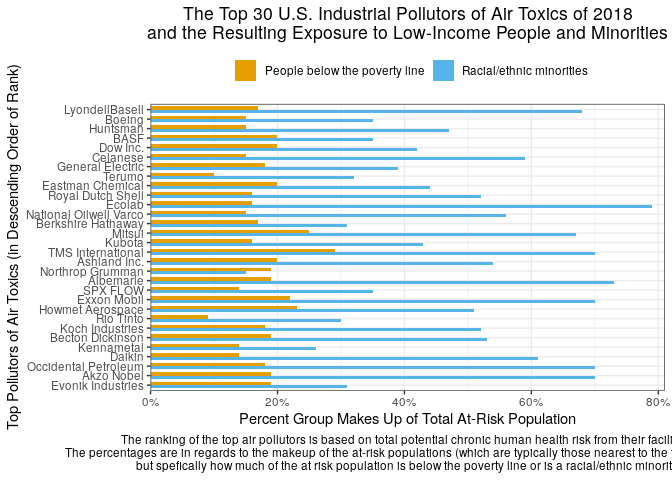
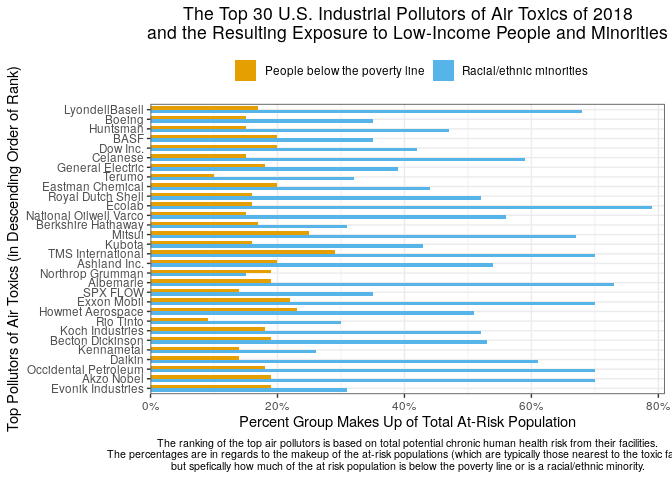
updated plots

Changed region(s): [[0.0, 0.125, 1.0, 1.0]]

diff --git a/README.md b/README.md
@@ -21,10 +21,10 @@ The development version of XXX is available from
 
 ``` r
 install.packages("devtools")
-#> Installing package into '/tmp/RtmpNRmzp3/temp_libpath32b71eda1601'
+#> Installing package into '/tmp/RtmpNRmzp3/temp_libpath32b739226ede'
 #> (as 'lib' is unspecified)
 install.packages("topPolluters")
-#> Installing package into '/tmp/RtmpNRmzp3/temp_libpath32b71eda1601'
+#> Installing package into '/tmp/RtmpNRmzp3/temp_libpath32b739226ede'
 #> (as 'lib' is unspecified)
 #> Warning: package 'topPolluters' is not available for this version of R
 #> 
@@ -97,7 +97,7 @@ topPolluters %>%
   theme(
     legend.title = element_blank(),
     plot.title = element_text(hjust = 0.5),
-    plot.caption = element_text(hjust = 0.5),
+    plot.caption = element_text(hjust = 0.5, size = 8),
     legend.position = "top"
   ) +
   scale_fill_manual(
@@ -116,19 +116,31 @@ filter(topPolluters, toxic.air.rank <= 50, greenhouse.rank <= 50, toxic.water.ra
     cols = c(toxic.air.rank, greenhouse.rank, toxic.water.rank),
     names_to = "rank.type",
     values_to = "ranking") %>%
-  ggplot(aes(x = polluter, y = ranking, label = ranking, fill = rank.type)) +
+  ggplot(aes(x = polluter, y = ranking, label = ranking, colour = rank.type)) +
   geom_linerange(aes(x = polluter, ymin = 50, ymax = ranking, colour = rank.type), 
                    position = position_dodge(width = .4))+
   geom_point(aes(x = polluter, y = ranking, colour = rank.type),
                position = position_dodge(width = .4))+
-  scale_x_discrete(expand = expansion(add = c(0, 0))) +
+  scale_x_discrete(expand = expansion(add = c(.3, .3))) +
+  scale_y_continuous(trans = "reverse",
+                     expand = expansion(add = c(.6, 4))) +
+  scale_color_manual(
+    name = "Type of Rank",
+    labels = c("Greenhouse Rank", "Toxic Air Rank", "Toxic Water Rank"),
+    values = c("#11B31A", "#D8BC42", "#4DA2F0")) +
   geom_text(aes(label = round(ranking, .4)), 
             position = position_dodge(0.4), vjust = -.4)+
+  labs( 
+    title = "U.S. Companies that are in the Top 50 Climate, Air, and Water Polluters",
+    subtitle = "From PERI's Greenhouse 110 Index, Toxic 100 Air Polluters Index, and Toxic 100 Water Polluters Index",
+    y = "Rank on Each Index"
+  ) +
   theme_light()+
-  theme(legend.position = "top") +
-  theme(axis.text.x = element_text(angle = -90, hjust = 0)) +
-  scale_y_continuous(trans = "reverse",
-                     expand = expansion(add = c(.6, 4)))
+  theme(legend.position = "top",
+        plot.title = element_text(hjust = 0.5),
+        plot.subtitle = element_text(hjust = 0.5),
+        axis.title.x = element_blank(),
+        axis.text.x = element_text(angle = -90, hjust = 0)) 
 ```
 
 <img src="man/figures/README-unnamed-chunk-5-1.png" width="100%" />
